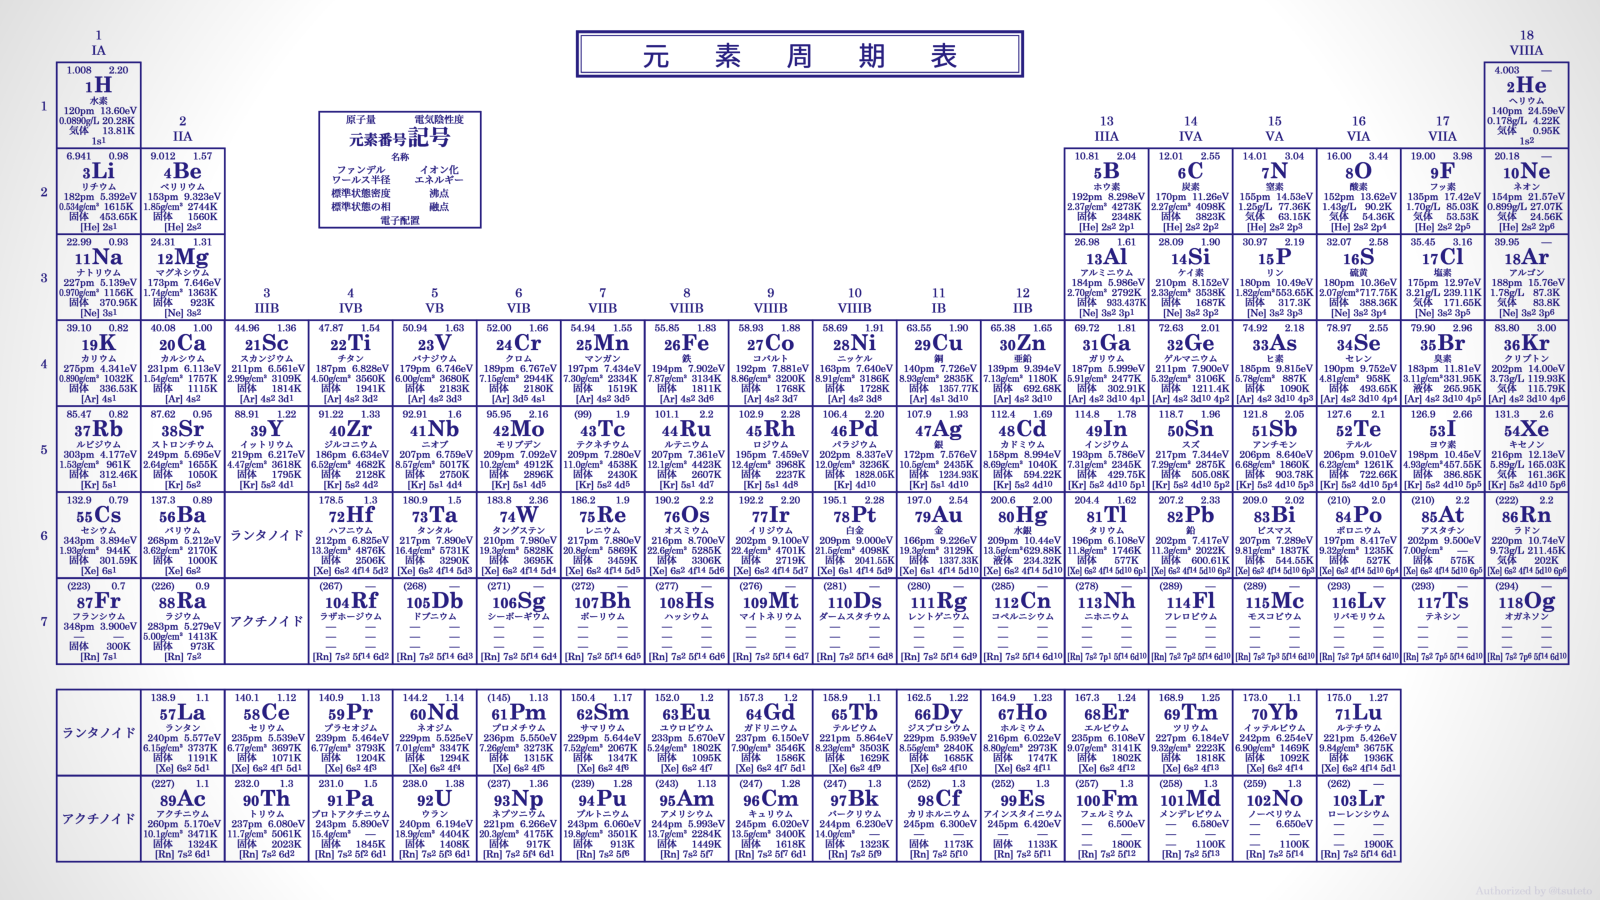
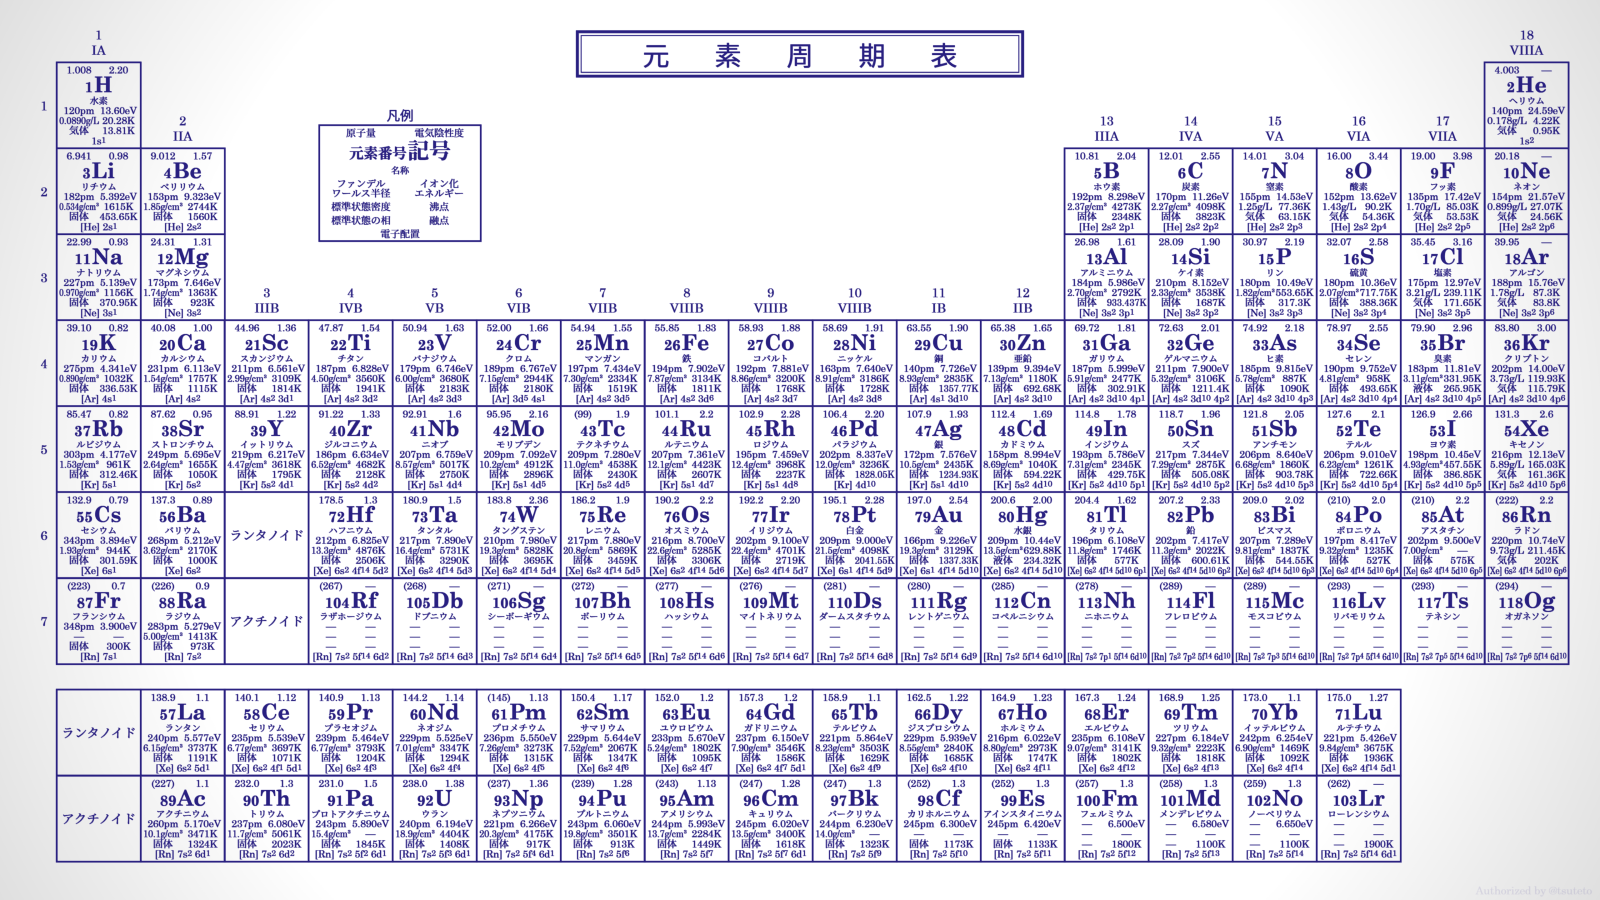
Fixed textbook skin

Changed region(s): [[0.1875, 0.1244, 0.3125, 0.28]]

diff --git a/context_jp.js b/context_jp.js
@@ -2,7 +2,7 @@ const CONTEXT = {
     title: "元素周期表",
     lanthanoid: "ランタノイド",
     actinoid: "アクチノイド",
-    legend: "",
+    legend: "凡例",
     no: "元素番号",
     symbol: "記号",
     name: {
